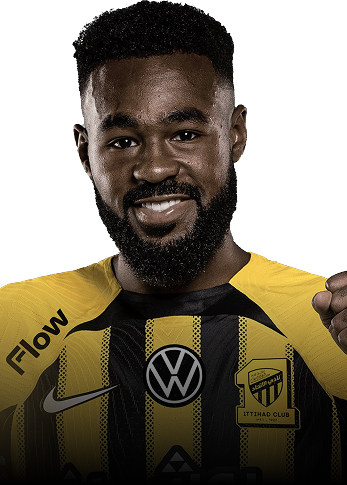
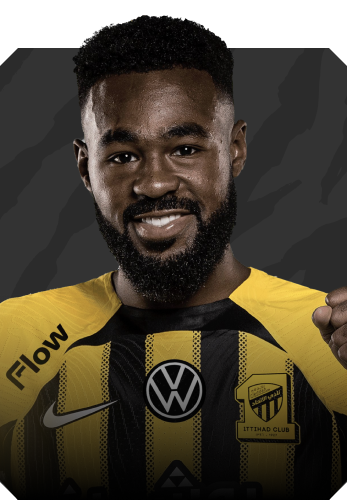
feat(TeamPromo): enhance team promo section with new slider and gender toggle
Add a new slider component with improved styling and functionality, including a gender toggle button. Update team member cards with background gradients and badges. Introduce a new CSS file for slider-specific styles and modify the global CSS to include the new styles.

diff --git a/components/TeamPromo/TeamPromo.jsx b/components/TeamPromo/TeamPromo.jsx
@@ -1,4 +1,5 @@
 "use client";
+import React, { useState } from "react";
 import Link from "next/link";
 import Image from "next/image";
 import { Navigation, Pagination } from "swiper/modules";
@@ -10,115 +11,180 @@ import "swiper/css/pagination";
 import "swiper/css/scrollbar";
 
 export default function TeamPromo() {
-  return (
-    <section className="px-4 md:px-12 py-[70px] md:py-[120px]">
-      <div className="flex items-center">
-        <h2 className="text-2xl md:text-[40px] font-black leading-[125%] tracking-[2px] uppercase">
-          First teams
-        </h2>
+  const [gender, setGender] = useState("mens");
 
-        <Link
-          href="/"
-          className="ml-auto text-xs font-bold leading-[120%] tracking-[0.2px] uppercase text-black bg-[#FFF014] py-3 px-2 hover:bg-[#FFF014]/90 transition-all duration-300 ease-in-out"
+  const toggleGender = () => {
+    setGender((prev) => (prev === "mens" ? "mens" : "ladies"));
+  };
+
+  return (
+    <section className="px-4 md:px-12 py-[70px] md:py-[120px] space-y-7 team-promo-block overflow-hidden">
+      <div className="flex flex-col space-y-4 md:space-y-5">
+        <div className="flex items-center">
+          <h2 className="text-2xl md:text-[40px] font-black leading-[125%] tracking-[2px] uppercase">
+            First teams
+          </h2>
+
+          <Link
+            href="#"
+            className="ml-auto text-xs font-bold leading-[120%] tracking-[0.2px] uppercase text-black bg-[#FFF014] py-3 px-2 hover:bg-[#FFF014]/90 transition-all duration-300 ease-in-out"
+            style={{
+              clipPath:
+                "polygon(8% 0px, 92% 0px, 100% 22%, 100% 80%, 93% 100%, 8% 100%, 0px 84%, 0px 22%)",
+            }}
+          >
+            View full team
+          </Link>
+        </div>
+
+        <button
+          onClick={toggleGender}
+          className="flex items-center gap-[7px] border border-[#333] bg-[#333] text-white cursor-pointer p-px w-fit"
           style={{
             clipPath:
               "polygon(8% 0px, 92% 0px, 100% 22%, 100% 80%, 93% 100%, 8% 100%, 0px 84%, 0px 22%)",
           }}
         >
-          View full team
-        </Link>
+          <span
+            style={{
+              clipPath:
+                "polygon(14% 0px, 83% 0px, 100% 24%, 100% 73%, 82% 100%, 14% 100%, 0px 79%, 0px 22%)",
+            }}
+            className={`text-xs font-normal leading-[170%] px-[7px] py-1 transition-colors duration-300 ${
+              gender === "mens" ? "bg-black" : "bg-[#333]"
+            }`}
+          >
+            Mens{" "}
+          </span>
+          <span
+            className={`text-xs font-normal leading-[170%] pr-[7px] py-[5px] transition-colors duration-300 ${
+              gender === "ladies" ? "bg-black" : "bg-[#333]"
+            }`}
+          >
+            Ladies
+          </span>
+        </button>
       </div>
 
       <Swiper
+        className="overflow-visible"
         modules={[Pagination, Navigation]}
-        spaceBetween={8}
-        slidesPerView={4.3}
-        loop={true}
+        spaceBetween={10}
+        slidesPerView={1.3}
         pagination={{
           el: ".team-progress",
           type: "progressbar",
         }}
         navigation={{
           enabled: true,
-          nextEl: ".swiper-button-next",
-          prevEl: ".swiper-button-prev",
+          nextEl: ".team-btn-next",
+          prevEl: ".team-btn-prev",
         }}
         breakpoints={{
           768: {
-            spaceBetween: 20,
             slidesPerView: 4,
           },
         }}
       >
-        <SwiperSlide className="w-full aspect-[175/100.235] md:aspect-[349/200]">
-          <Image
-            src="/images/team-1.png"
-            alt=""
-            width={347}
-            height={485}
-            className="object-contain h-full w-full"
-          />
+        <SwiperSlide
+          className="w-full aspect-[264/369] md:aspect-[347/485] bg-center !flex items-end relative !bg-black"
+          style={{
+            background:
+              "linear-gradient(180deg, rgba(0, 0, 0, 0.00) 54.92%, #000 100%), url('/images/team-1.png') lightgray 50% / cover no-repeat",
+          }}
+        >
+          <div className="w-[93px] h-[86px] absolute top-[84px] right-[58px]">
+            <Image
+              src={"/images/Badge.png"}
+              width={93}
+              height={86}
+              alt=""
+              className="w-full h-full object-contain"
+            />
+          </div>
 
-          <div>
-            <h3>Abdulilah Alamri</h3>
-            <span>4</span>
+          <div className="flex items-center gap-7 justify-between w-full px-4 py-5">
+            <h3 className="text-base md:text-2xl font-extrabold leading-[125%] tracking-[0.5px] uppercase max-w-[196px]">
+              Abdulilah Alamri
+            </h3>
+            <span className="text-[40px] md:text-[56px] font-black leading-[100%] tracking-[2px] uppercase">
+              4
+            </span>
           </div>
         </SwiperSlide>
-        <SwiperSlide className="w-full aspect-[175/100.235] md:aspect-[349/200]">
-          {/* <Image
-            src=""
-            alt=""
-            width={400}
-            height={300}
-            className="object-contain h-full w-full"
-          /> */}
-          <h2>hello</h2>
+
+        <SwiperSlide
+          className="w-full aspect-[264/369] md:aspect-[347/485] bg-center !flex items-end relative !bg-black"
+          style={{
+            background:
+              "linear-gradient(180deg, rgba(0, 0, 0, 0.00) 54.92%, #000 100%), url('/images/team-2.png') lightgray 50% / cover no-repeat",
+          }}
+        >
+          <div className="flex items-center gap-7 justify-between w-full px-4 py-5">
+            <h3 className="text-base md:text-2xl font-extrabold leading-[125%] tracking-[0.5px] uppercase max-w-[196px]">
+              Muhannad Al-Shanqeeti
+            </h3>
+            <span className="text-[40px] md:text-[56px] font-black leading-[100%] tracking-[2px] uppercase">
+              13
+            </span>
+          </div>
         </SwiperSlide>
-        <SwiperSlide className="w-full aspect-[175/100.235] md:aspect-[349/200]">
-          {/* <Image
-            src=""
-            alt=""
-            width={400}
-            height={300}
-            className="object-contain h-full w-full"
-          /> */}
-          <h2>hello</h2>
+
+        <SwiperSlide
+          className="w-full aspect-[264/369] md:aspect-[347/485] bg-center !flex items-end relative !bg-black"
+          style={{
+            background:
+              "linear-gradient(180deg, rgba(0, 0, 0, 0.00) 54.92%, #000 100%), url('/images/team-3.png') lightgray 50% / cover no-repeat",
+          }}
+        >
+          <div className="flex items-center gap-7 justify-between w-full px-4 py-5">
+            <h3 className="text-base md:text-2xl font-extrabold leading-[125%] tracking-[0.5px] uppercase max-w-[196px]">
+              Hossam Aouar
+            </h3>
+            <span className="text-[40px] md:text-[56px] font-black leading-[100%] tracking-[2px] uppercase">
+              10
+            </span>
+          </div>
         </SwiperSlide>
-        <SwiperSlide className="w-full aspect-[175/100.235] md:aspect-[349/200]">
-          {/* <Image
-            src=""
-            alt=""
-            width={400}
-            height={300}
-            className="object-contain h-full w-full"
-          /> */}
-          <h2>hello</h2>
+
+        <SwiperSlide
+          className="w-full aspect-[264/369] md:aspect-[347/485] bg-center !flex items-end relative !bg-black"
+          style={{
+            background:
+              "linear-gradient(180deg, rgba(0, 0, 0, 0.00) 54.92%, #000 100%), url('/images/team-4.png') lightgray 50% / cover no-repeat",
+          }}
+        >
+          <div className="flex items-center gap-7 justify-between w-full px-4 py-5">
+            <h3 className="text-base md:text-2xl font-extrabold leading-[125%] tracking-[0.5px] uppercase max-w-[196px]">
+              Abdulaziz Albishi
+            </h3>
+            <span className="text-[40px] md:text-[56px] font-black leading-[100%] tracking-[2px] uppercase">
+              2
+            </span>
+          </div>
         </SwiperSlide>
-        <SwiperSlide className="w-full aspect-[175/100.235] md:aspect-[349/200]">
-          {/* <Image
-            src=""
-            alt=""
-            width={400}
-            height={300}
-            className="object-contain h-full w-full"
-          /> */}
-          <h2>hello</h2>
-        </SwiperSlide>
-        <SwiperSlide className="w-full aspect-[175/100.235] md:aspect-[349/200]">
-          {/* <Image
-            src=""
-            alt=""
-            width={400}
-            height={300}
-            className="object-contain h-full w-full"
-          /> */}
-          <h2>hello</h2>
+
+        <SwiperSlide
+          className="w-full aspect-[264/369] md:aspect-[347/485] bg-center !flex items-end relative !bg-black"
+          style={{
+            background:
+              "linear-gradient(180deg, rgba(0, 0, 0, 0.00) 54.92%, #000 100%), url('/images/team-5.png') lightgray 50% / cover no-repeat",
+          }}
+        >
+          <div className="flex items-center gap-7 justify-between w-full px-4 py-5">
+            <h3 className="text-base md:text-2xl font-extrabold leading-[125%] tracking-[0.5px] uppercase max-w-[196px]">
+              Abdulilah Alamri
+            </h3>
+            <span className="text-[40px] md:text-[56px] font-black leading-[100%] tracking-[2px] uppercase">
+              4
+            </span>
+          </div>
         </SwiperSlide>
 
         {/* Start OF Swiper Controls */}
-        <div className="relative hidden md:flex items-center md:mt-8">
-          <div className="swiper-navigation flex items-center">
-            <div className="swiper-button-prev">
+        <div className="relative flex items-center gap-10 mt-8">
+          <div className="swiper-navigation hidden md:flex items-center gap-4">
+            <div className="team-btn-prev">
               <svg
                 xmlns="http://www.w3.org/2000/svg"
                 width="43"
@@ -126,7 +192,7 @@ export default function TeamPromo() {
                 viewBox="0 0 43 11"
                 fill="none"
               >
-                <g opacity="0.5">
+                <g>
                   <path
                     d="M42.5 4.52L4.31998 4.52L7.56 1.37L6.14999 4.93938e-07L0.5 5.5L6.14999 11L7.56 9.62L4.31998 6.47L42.5 6.47L42.5 4.52Z"
                     fill="#FFF014"
@@ -134,7 +200,8 @@ export default function TeamPromo() {
                 </g>
               </svg>
             </div>
-            <div className="swiper-button-next">
+
+            <div className="team-btn-next">
               <svg
                 xmlns="http://www.w3.org/2000/svg"
                 width="43"
@@ -150,7 +217,7 @@ export default function TeamPromo() {
             </div>
           </div>
 
-          <div className="team-progress"></div>
+          <div className="team-progress !relative !bg-[#333] !h-px"></div>
         </div>
       </Swiper>
     </section>

diff --git a/styles/_slider.css b/styles/_slider.css
@@ -1,0 +1,18 @@
+.team-promo-block .swiper{
+    @apply overflow-visible;
+}
+.team-promo-block .swiper-pagination-progressbar .swiper-pagination-progressbar-fill {
+    @apply bg-[#FFF014] h-[3px] -top-px;
+}
+.team-promo-block .swiper-button-disabled{
+    @apply opacity-50 pointer-events-none;
+}
+
+/* .team-promo-block .swiper-button-next:after,
+.swiper-rtl .swiper-button-prev:after {
+  content: none !important;
+}
+.team-promo-block .swiper-button-prev:after,
+.swiper-rtl .swiper-button-next:after {
+  content: none !important;
+} */

diff --git a/styles/globals.css b/styles/globals.css
@@ -1,5 +1,6 @@
 @import "tailwindcss";
 @import "./animations.css";
+@import "./_slider.css";
 
 :root {
   --background: #000;
